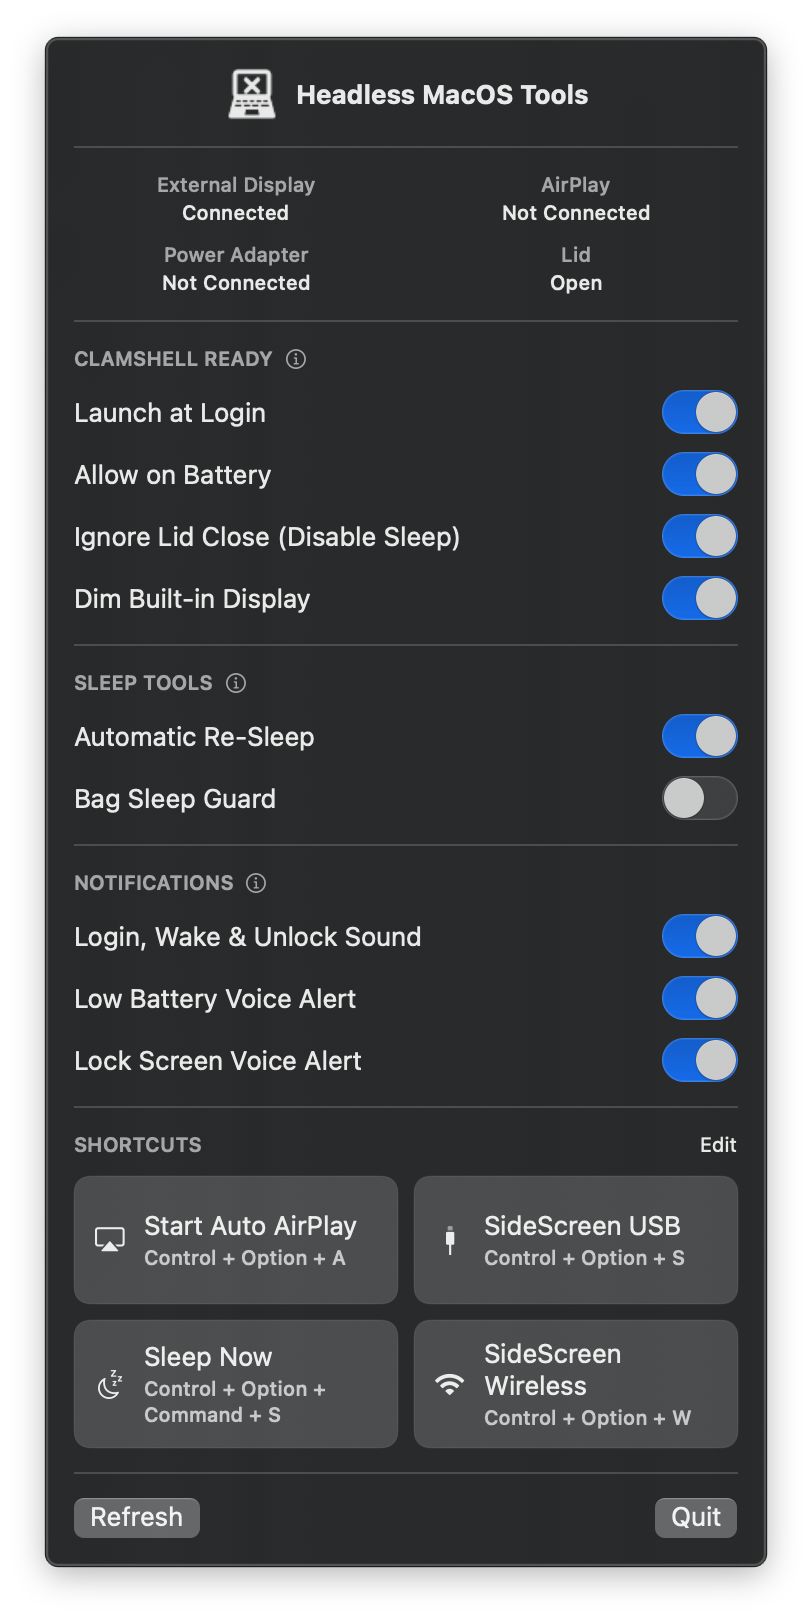
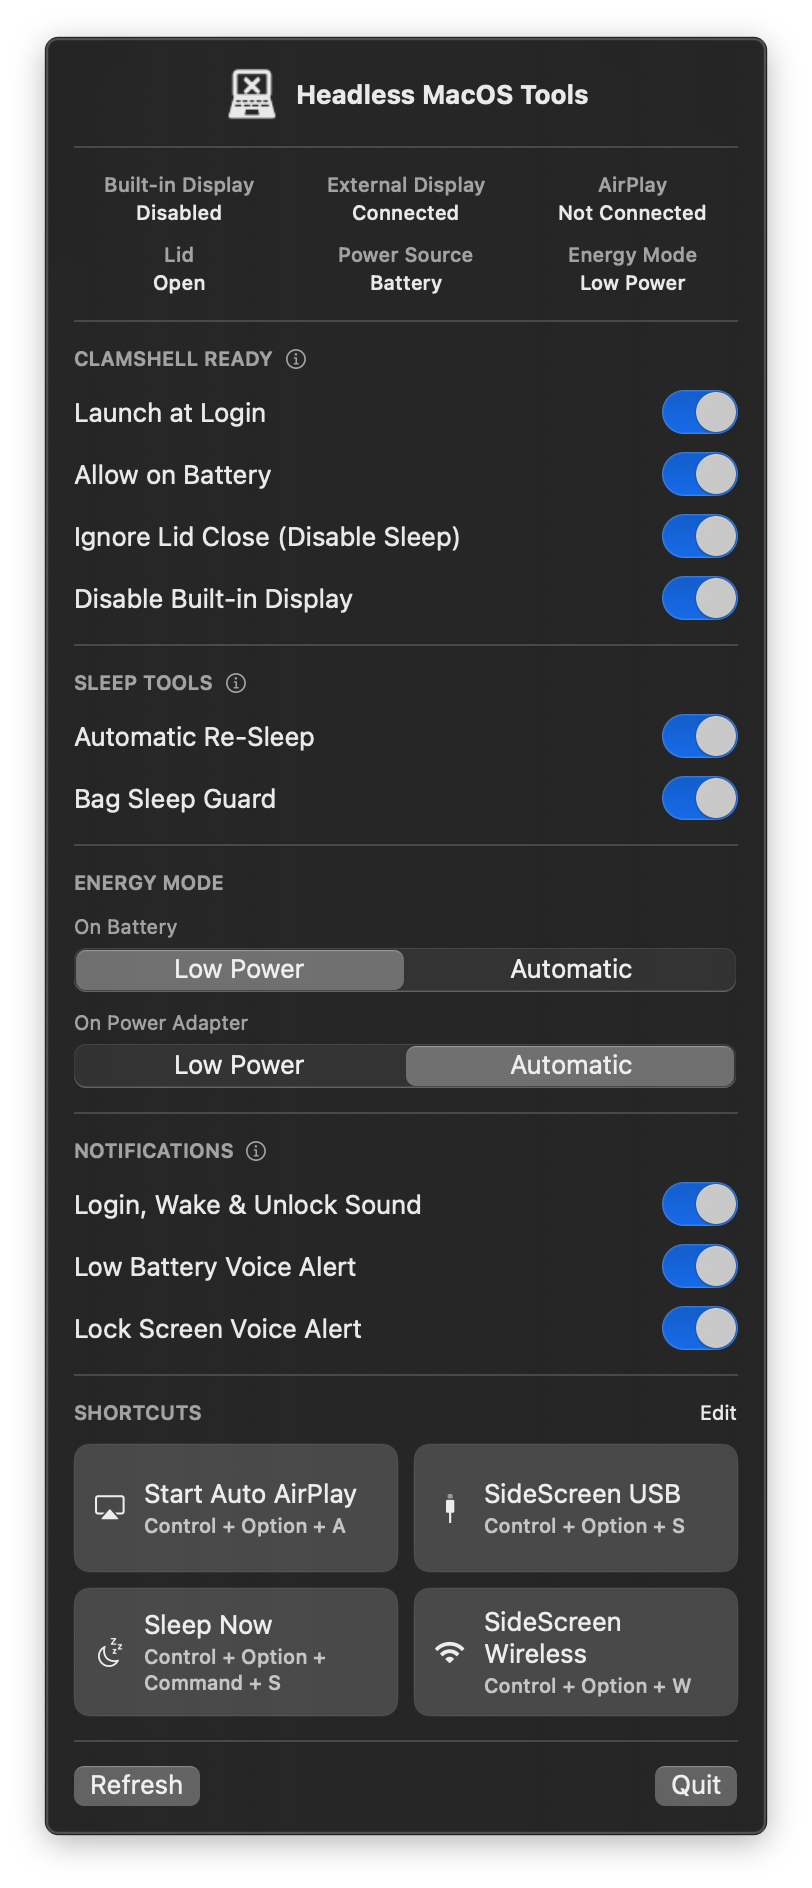
Remove Energy Mode transition lock and update screenshot

Changed region(s): [[0.0616, 0.0, 0.9544, 0.9877], [0.8005, 0.1852, 0.9236, 0.5247], [0.6158, 0.4938, 0.7697, 0.5247]]

diff --git a/Sources/HeadlessMacBookTools/Services/SystemMonitor.swift b/Sources/HeadlessMacBookTools/Services/SystemMonitor.swift
@@ -15,7 +15,6 @@ import ServiceManagement
     @Published private(set) var batteryEnergyMode: EnergyMode = .unavailable
     @Published private(set) var adapterEnergyMode: EnergyMode = .unavailable
     @Published private(set) var supportsHighPowerMode = false
-    @Published private(set) var isChangingEnergyMode = false
     @Published private(set) var lidState: LidState = .unavailable
     @Published private(set) var assertionActive = false
     @Published private(set) var lidOverrideActive = false
@@ -127,10 +126,9 @@ import ServiceManagement
         }
     }
     func setEnergyMode(_ mode: EnergyMode, for source: EnergyPowerSource) {
-        guard let energyModeKey, !isChangingEnergyMode else { return }
+        guard let energyModeKey else { return }
         energyModeRefreshTask?.cancel()
         energyModeSettlingUntil = Date().addingTimeInterval(8)
-        isChangingEnergyMode = true
         if source == .battery { batteryEnergyMode = mode } else { adapterEnergyMode = mode }
         energyMode = isOnACPower ? adapterEnergyMode : batteryEnergyMode
         energyModeRefreshTask = Task { @MainActor [weak self] in
@@ -147,14 +145,12 @@ import ServiceManagement
                     if confirmed == mode { break }
                 }
                 self.energyModeSettlingUntil = .distantPast
-                self.isChangingEnergyMode = false
                 self.lastActionError = nil
                 self.errorMessage = nil
                 self.refresh()
             } catch {
                 guard let self else { return }
                 self.energyModeSettlingUntil = .distantPast
-                self.isChangingEnergyMode = false
                 self.refresh()
                 self.lastActionError = error.localizedDescription
                 self.errorMessage = self.lastActionError

diff --git a/Sources/HeadlessMacBookTools/Views/MenuContentView.swift b/Sources/HeadlessMacBookTools/Views/MenuContentView.swift
@@ -127,7 +127,6 @@ struct MenuContentView: View {
             }
             .labelsHidden()
             .pickerStyle(.segmented)
-            .disabled(monitor.isChangingEnergyMode)
         }
     }
 